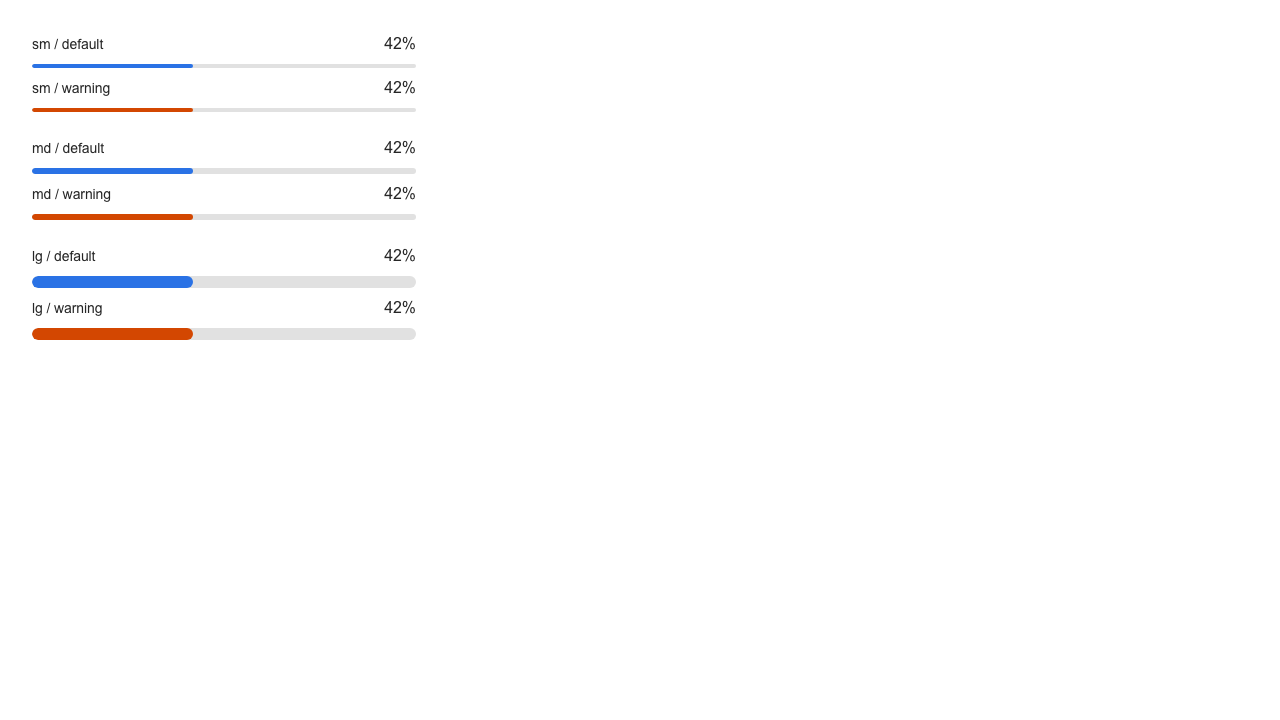
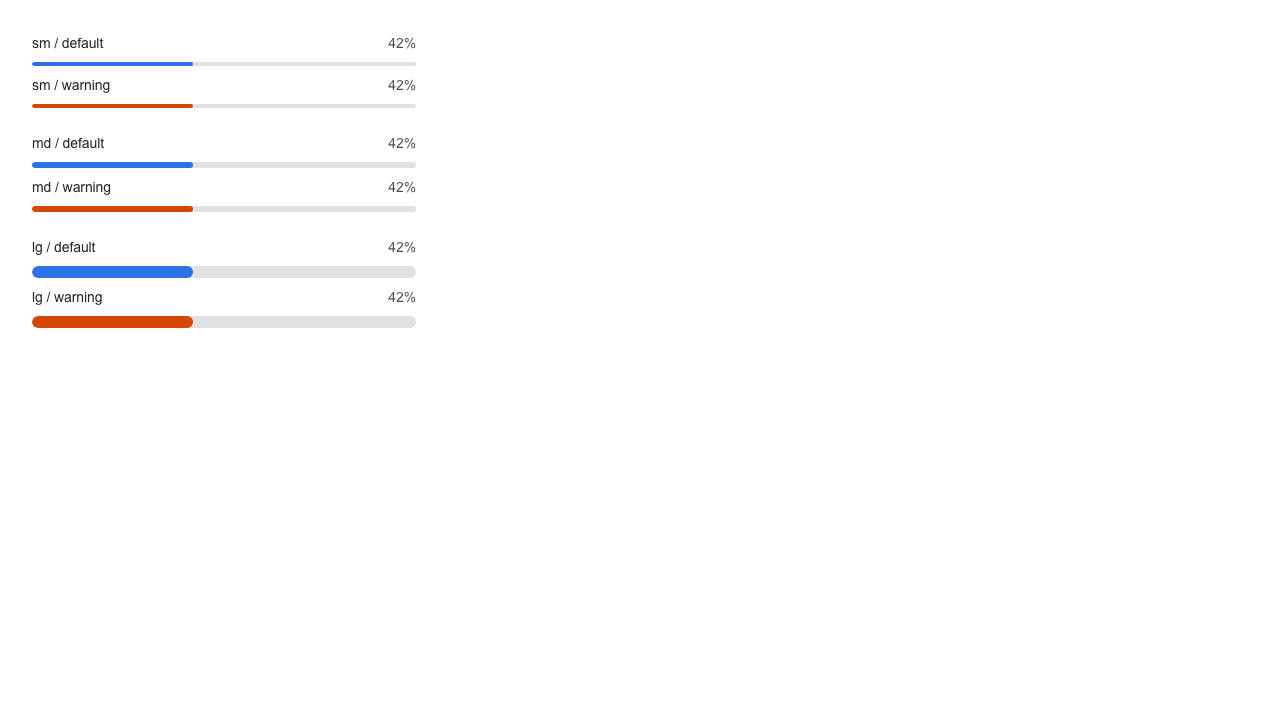
style(meter): align styles with Figma spec

Changed region(s): [[0.0, 0.3361, 0.3438, 0.4889], [0.0, 0.1833, 0.3438, 0.3056], [0.0312, 0.0306, 0.3438, 0.1528]]

diff --git a/packages/core/src/components/meter/meter.css.ts b/packages/core/src/components/meter/meter.css.ts
@@ -7,7 +7,7 @@ import { vars } from '~/styles/themes.css';
 export const root = componentStyle({
     display: 'grid',
     gridTemplateColumns: 'minmax(0, 1fr) auto',
-    alignItems: 'baseline',
+    alignItems: 'center',
     rowGap: vars.size.space['100'],
     width: '100%',
 });
@@ -16,7 +16,7 @@ export const track = componentRecipe({
     base: {
         gridColumn: '1 / 3',
         borderRadius: vars.size.borderRadius['900'],
-        backgroundColor: vars.color.border['normal'],
+        backgroundColor: vars.color.background['secondary'],
         overflow: 'hidden',
     },
 
@@ -54,14 +54,14 @@ export const indicator = componentRecipe({
 export const label = componentStyle({
     gridColumn: '1',
     color: vars.color.foreground['normal'],
-    ...typographyVariants.body2,
+    ...typographyVariants.subtitle1,
 });
 
 export const value = componentStyle({
     gridColumn: '2',
     textAlign: 'end',
-    color: vars.color.foreground['normal'],
-    ...typographyVariants.heading6,
+    color: vars.color.foreground['secondary'],
+    ...typographyVariants.subtitle1,
 });
 
 export type TrackVariants = NonNullable<RecipeVariants<typeof track>>;
